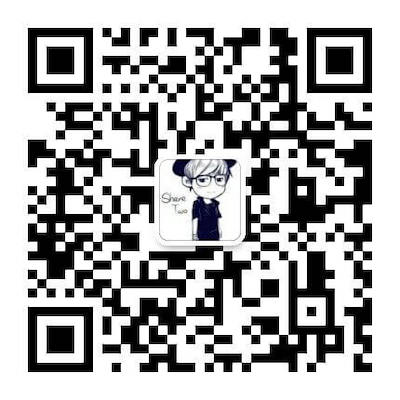
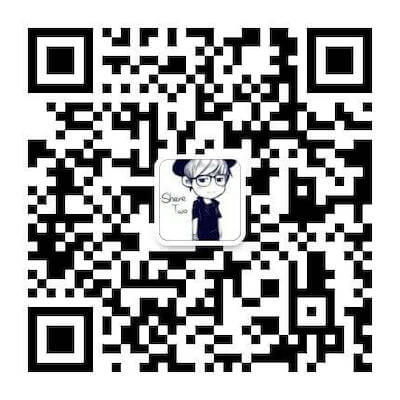
bug fix & 图片压缩

diff --git a/src/pages/statistics/index.tsx b/src/pages/statistics/index.tsx
@@ -187,12 +187,12 @@ export default class Statistics extends Component<any, States> {
                     current={this.state.current}
                     tabList={[
                         { title: '前端框架' },
-                        { title: '生态圈' }
+                        { title: '前端生态圈' }
                     ]}
                     onClick={this.handleClick.bind(this)}>
                     <View className="main">
                         <AtTabsPane current={this.state.current} index={0}>
-                            <Text className="eChartTitle">2022年NPM下载量</Text>
+                            <Text className="eChartTitle">前端框架NPM下载量/月（2022）</Text>
                             <View className="canvas bar" style={{ margin: '30px 0' }}>
                                 <ec-canvas id="mychart-dom-bar" canvas-id="mychart-bar" ec={ecLine}></ec-canvas>
                             </View>
@@ -203,7 +203,7 @@ export default class Statistics extends Component<any, States> {
                             </View>
                         </AtTabsPane>
                         <AtTabsPane current={this.state.current} index={1}>
-                            <Text className="eChartTitle">前端相关技术栈</Text>
+                            <Text className="eChartTitle">服务端框架NPM下载量/月（2022）</Text>
                             <View className="canvas bar" style={{ margin: '30px 0' }}>
                                 <ec-canvas id="mychart-dom-bar" canvas-id="mychart-bar" ec={ecBar}></ec-canvas>
                             </View>

diff --git a/src/pages/contact/index.tsx b/src/pages/contact/index.tsx
@@ -33,7 +33,7 @@ const Contact: FC = () => {
                         如有商业合作可以添加以下联系方式（微信号：machao1927），或扫描下方二维码。
                     </View>
 
-                    <AtButton  className='copyBtn' circle={true} type='primary' onClick={handleCopy}>一件复制微信号</AtButton>
+                    <AtButton className='copyBtn' circle={true} type='primary' onClick={handleCopy}>一键复制微信号</AtButton>
 
                     <Image
                         className='at-article__img'
@@ -41,10 +41,8 @@ const Contact: FC = () => {
                         mode='widthFix' />
                 </View>
             </View>
-
         </View>
     )
-
 }
 
 export default Contact

diff --git a/src/pages/my/index.tsx b/src/pages/my/index.tsx
@@ -43,6 +43,7 @@ export default class My extends Component<any, States> {
             desc: '获取用户昵称、头像',
             success: (res) => {
                 Taro.setStorageSync('userInfo', res.userInfo)
+                this.setState({ userInfo: res.userInfo })
             },
             fail: () => {
                 console.error("您拒绝了请求");

diff --git a/src/pages/my/index.scss b/src/pages/my/index.scss
@@ -3,7 +3,7 @@
     background: #f1f1f1;
     position: absolute;
     top: 0;
-    bottom: 150px;
+    bottom: 134px;
     overflow-y: auto;
     .avatar{
         margin-bottom: 20px;
@@ -23,7 +23,7 @@
     .copyright{
         margin-top: 50px;
         text-align: center;
-        font-size: 16px;
+        font-size: 18px;
         color: #aaa
     }
 }
